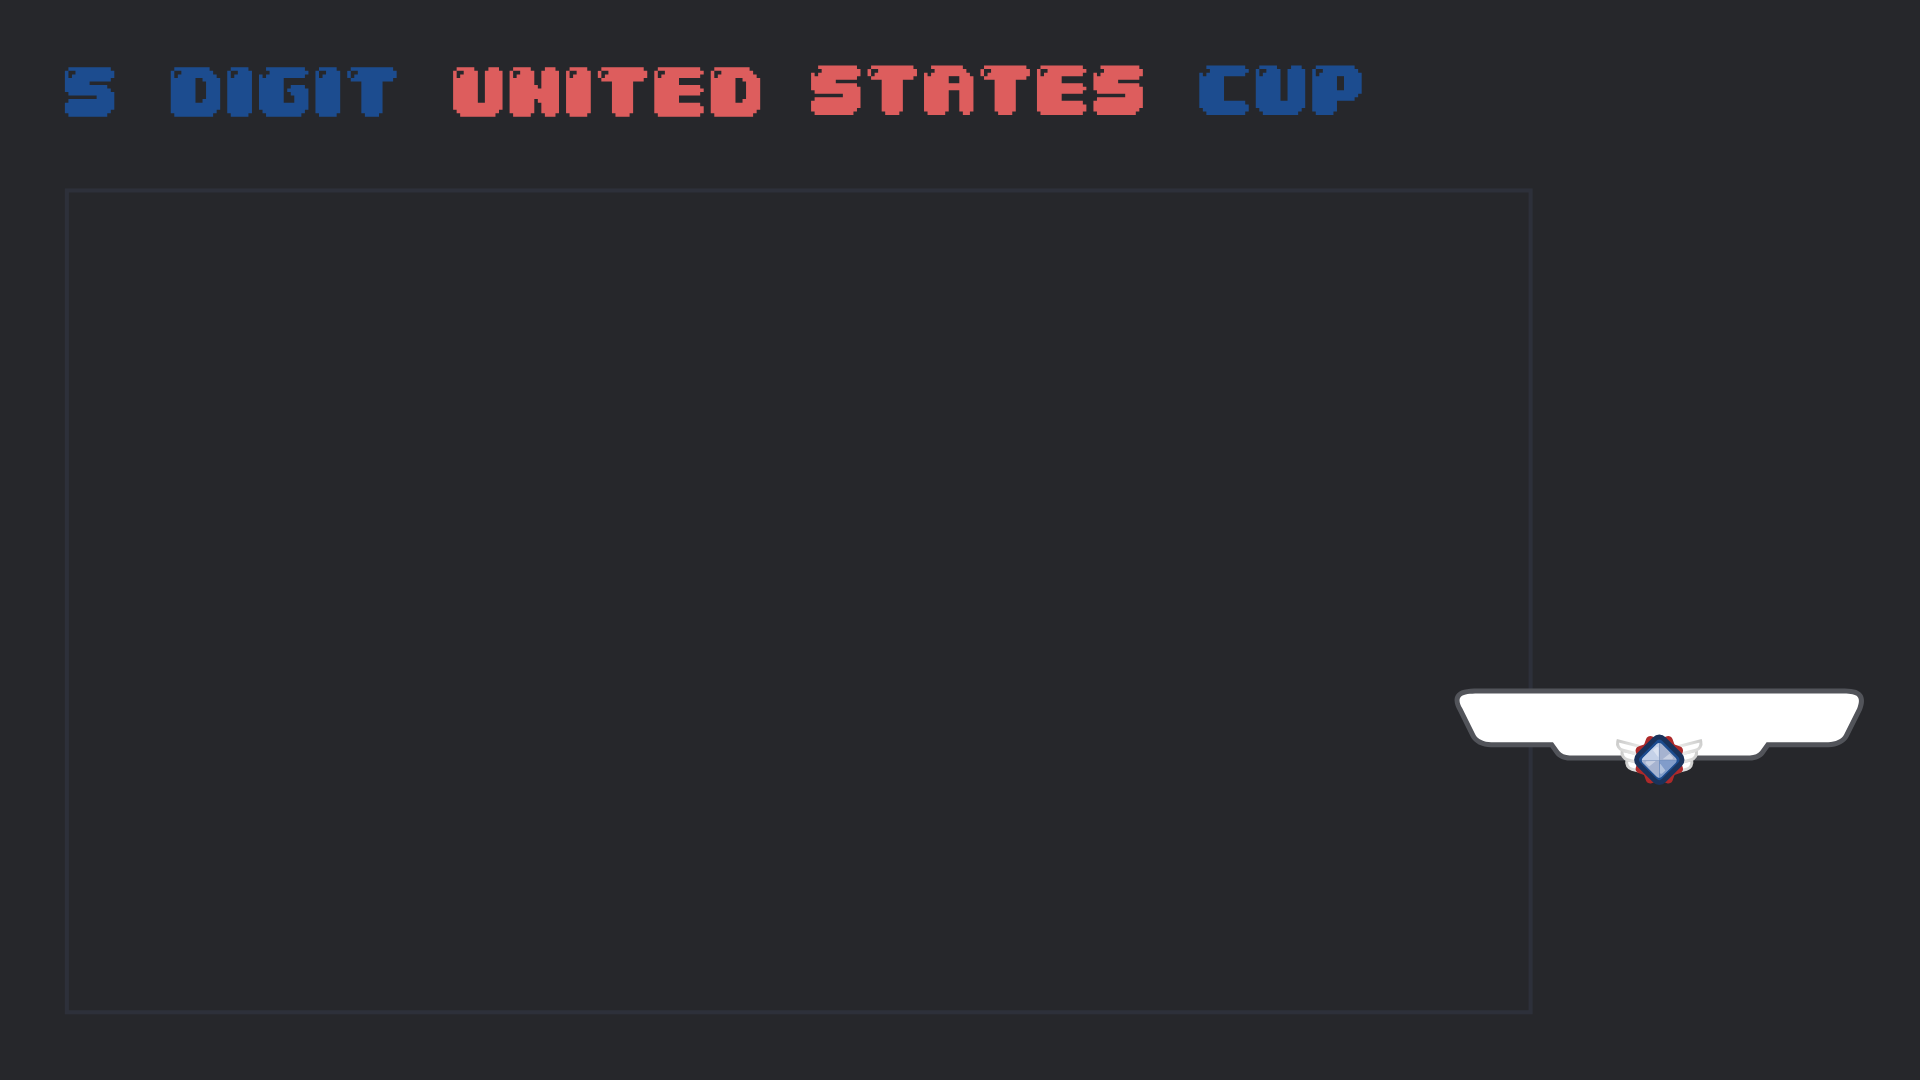
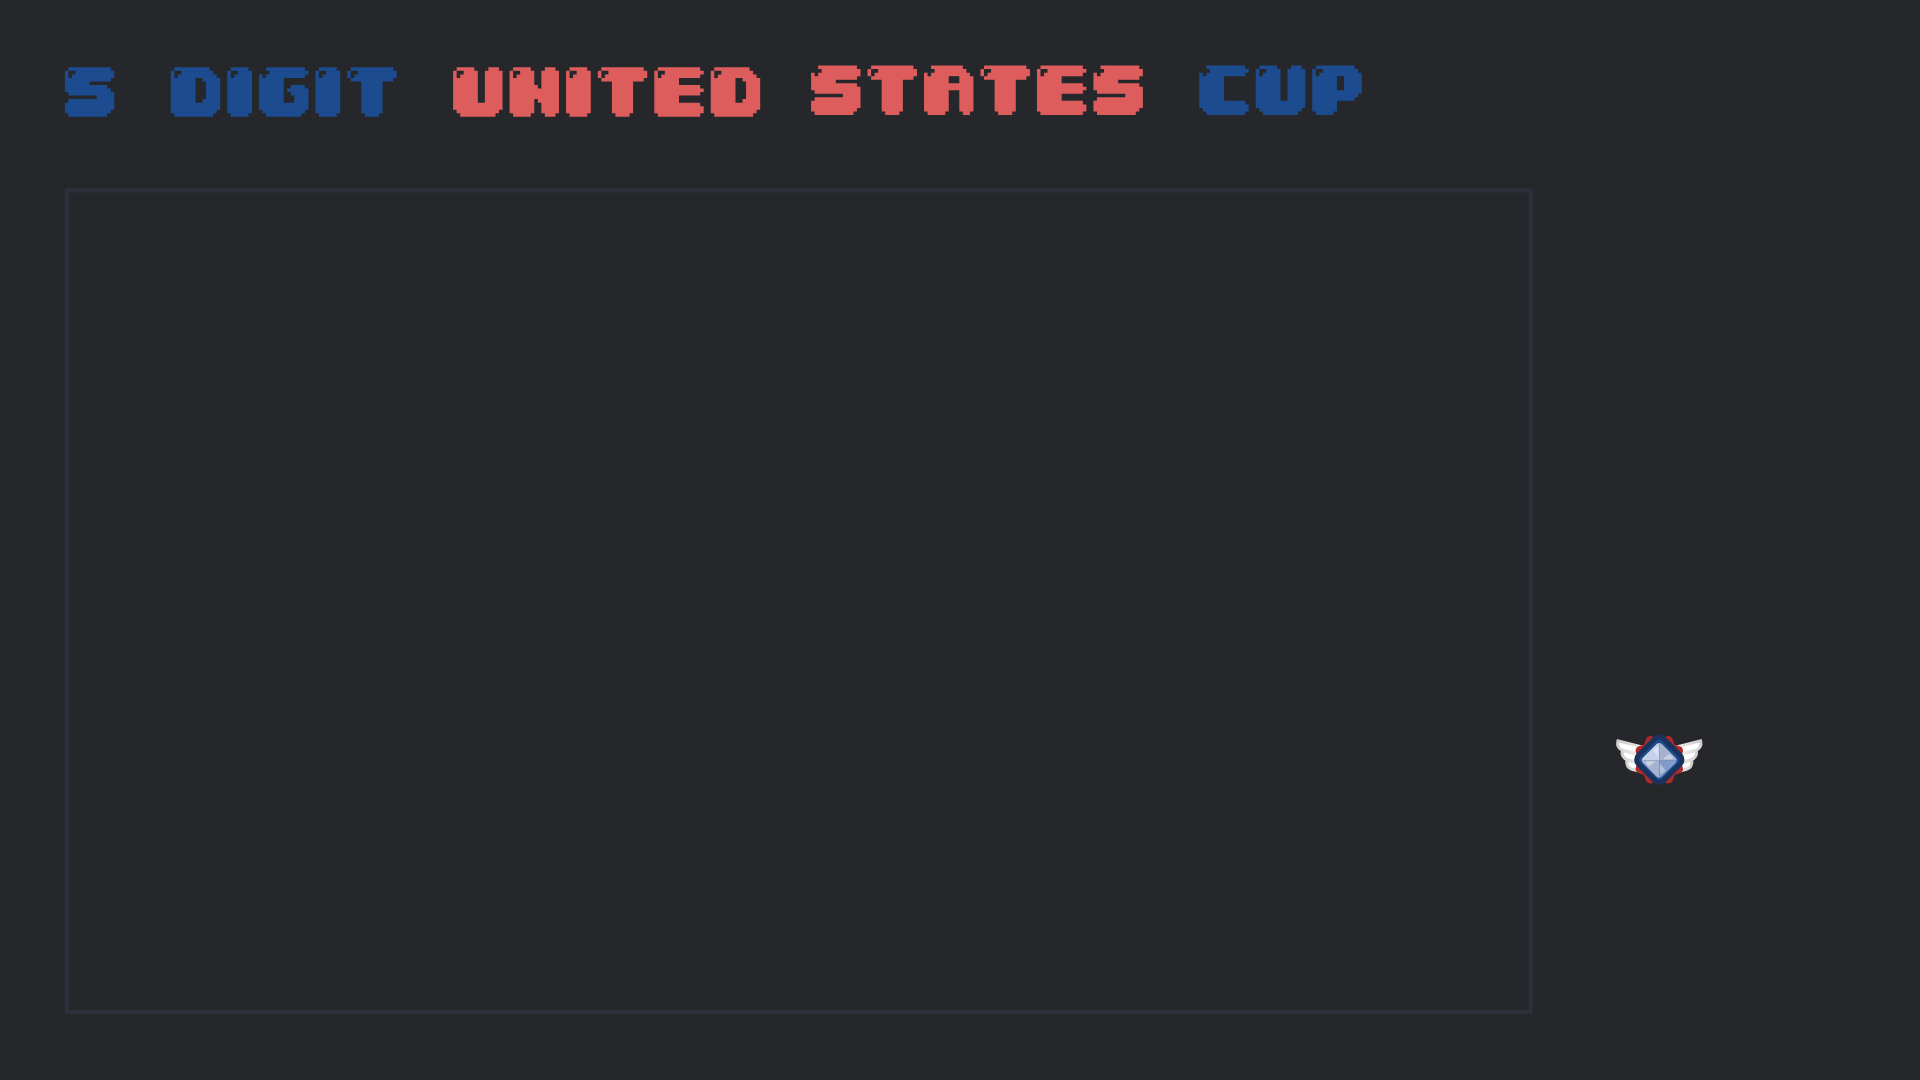
Modify 5USC2025 ensuring appropriate changes

Changed region(s): [[0.75, 0.6111, 0.9688, 0.7028]]

diff --git a/showcase/style.css b/showcase/style.css
@@ -22,6 +22,18 @@
 }
 
 /* ===========================
+    Greenscreen
+=========================== */
+.greenscreen {
+    position: absolute;
+    top: 192px;
+    left: 69px;
+    background-color: #0F0;
+    width: 1460px;
+    height: 818px;
+}
+
+/* ===========================
     Title
 =========================== */
 .title {
@@ -95,6 +107,11 @@
 /* ===========================
     Replayer
 =========================== */
+.replayer-frame {
+    position: absolute;
+    bottom: 295px;
+    right: 56px;
+}
 .replayer {
     position: absolute;
     bottom: 357px;

diff --git a/showcase/index.html b/showcase/index.html
@@ -13,6 +13,7 @@
 </head>
 <body>
     <div class="main">
+        <div class="greenscreen"></div>
         
         <!-- Title -->
         <div class="title" id="title">QUALIFIER SHOWCASE</div>
@@ -58,6 +59,7 @@
         </section>
 
         <!-- Replayer -->
+        <img class="replayer-frame" src="static/replay-frame.png">
         <div class="replayer" id="replayer">REPLAY BY <span id="replayer-name">SHWAERKBILATHON</span></div>
     </div>
 

diff --git a/predictions/style.css b/predictions/style.css
@@ -12,7 +12,7 @@
 =========================== */
 .now-playing-iframe {
     position: absolute;
-    bottom: 10px;
+    bottom: 40px;
     left: 134px;
     width: 498px;
     height: 97px;
